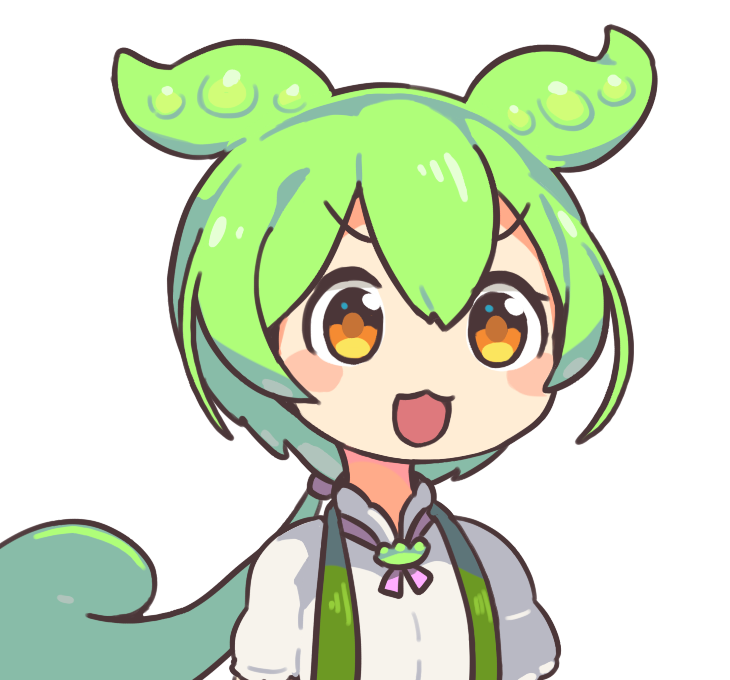
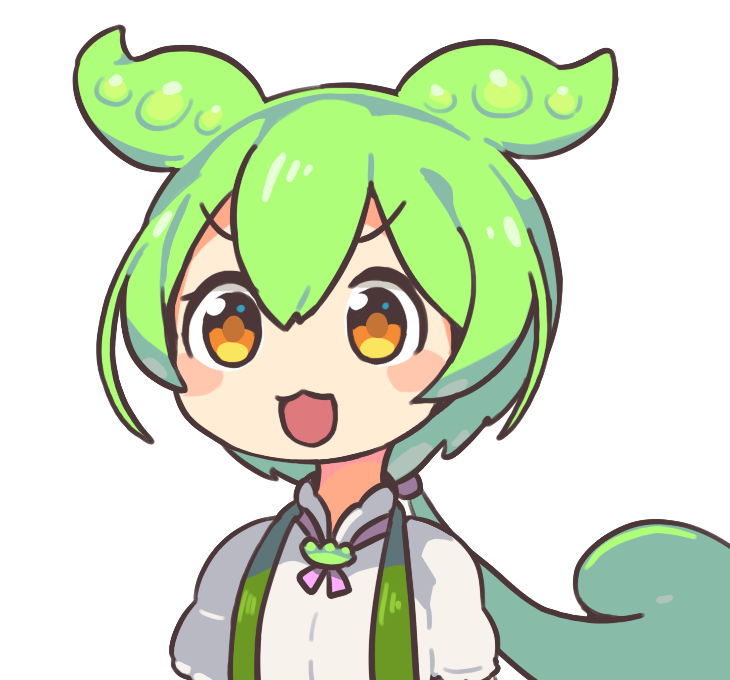
main

diff --git a/tips01.html b/tips01.html
@@ -56,7 +56,7 @@
         CSSファイルを確認してみてください。<br>
         <br>
         <div class="zunda">
-        <img src="IMG/zundamon.png">
+        <img src="IMG/zunda.png">
         </div>
         <br>
         色々な表現<br>

diff --git a/CSS/tips01.css b/CSS/tips01.css
@@ -14,8 +14,6 @@
 .zunda
     {
         position: fixed;
-        max-width: 25%;
-        height: auto;
         bottom: 0px;
         right: 200px;
     }
